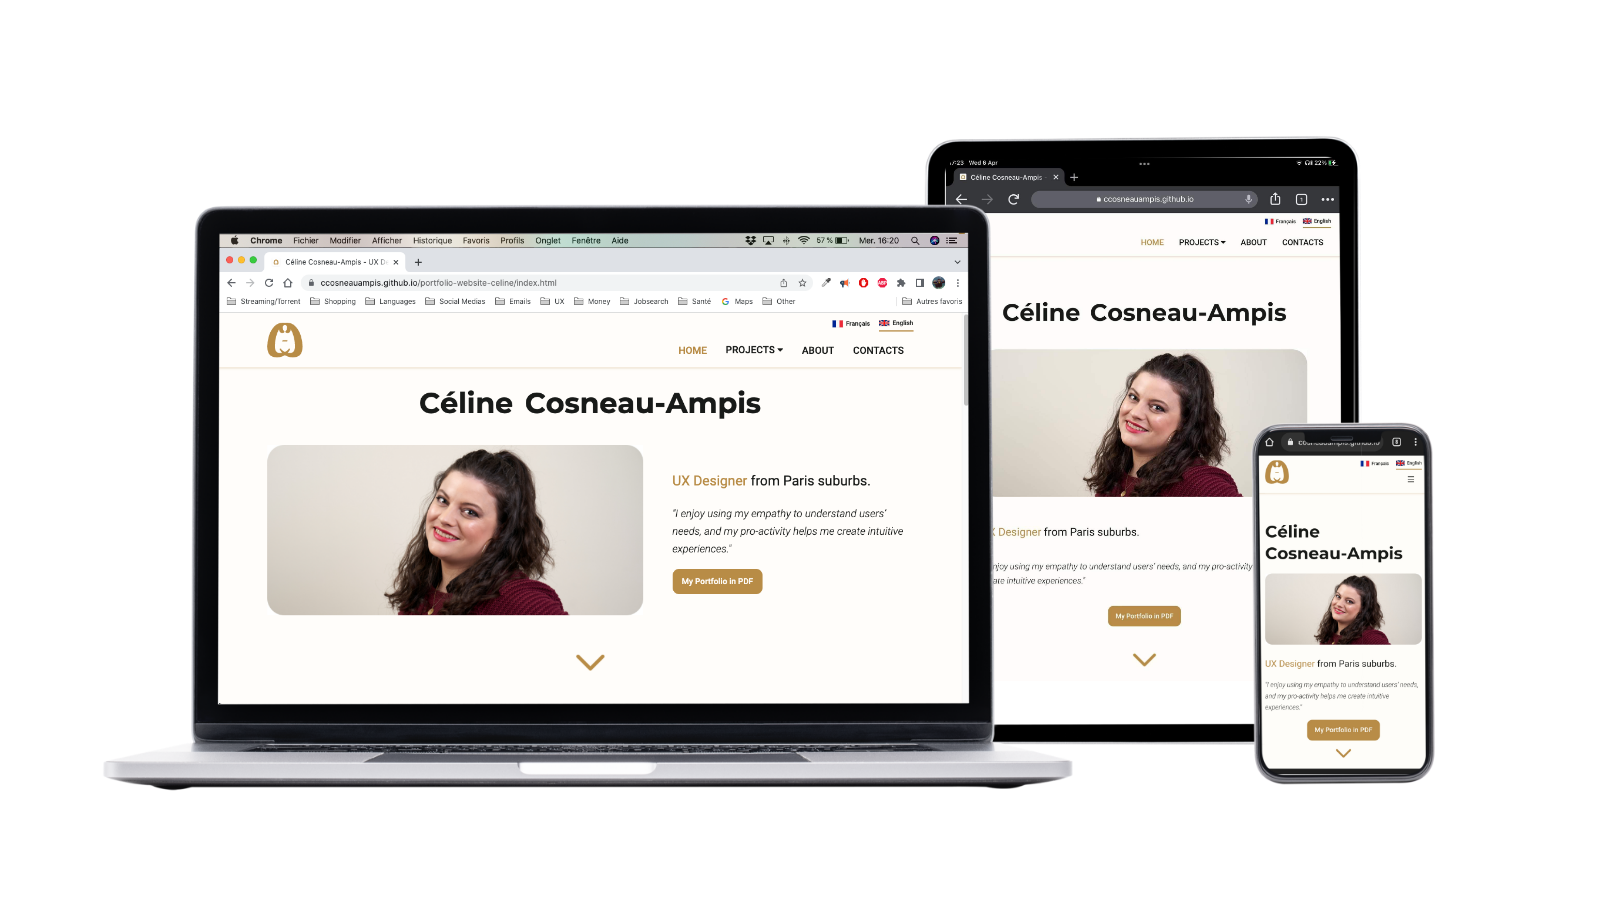
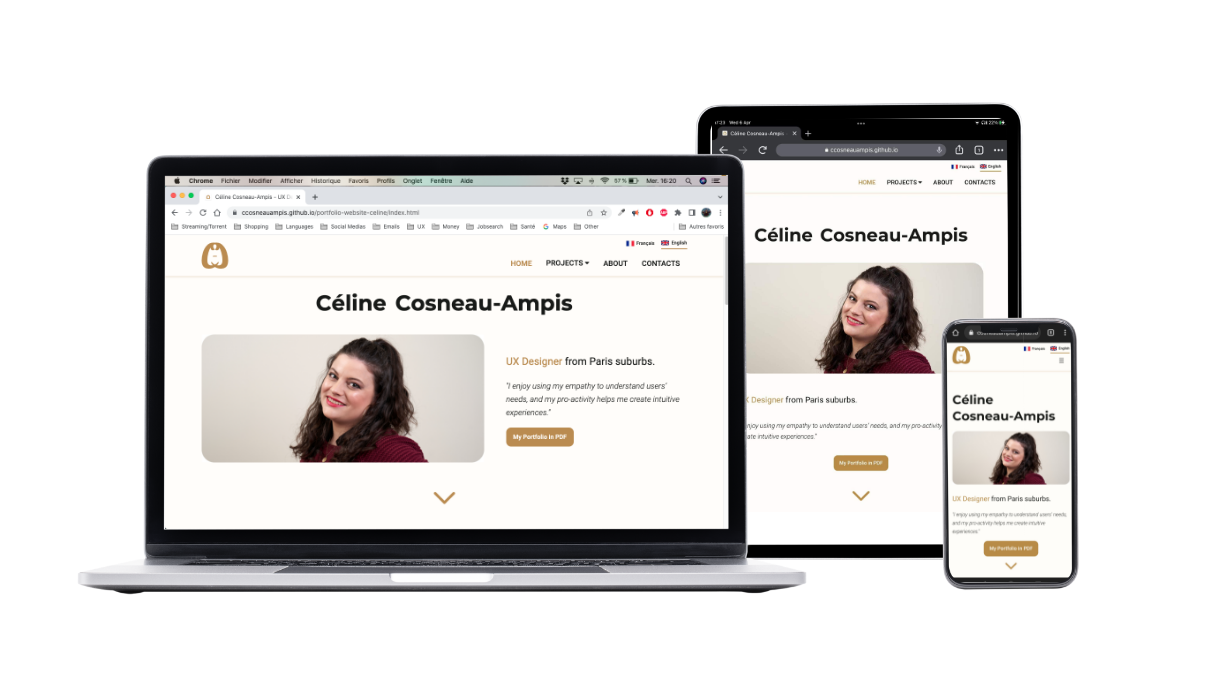
Fixed cover size

diff --git a/css/myportfoliowebsite.css b/css/myportfoliowebsite.css
@@ -401,6 +401,12 @@ a.phase:active {
 
 /* Main */
 /* MyPortfolioWebsite */
+main h1, main h2, main h3, main h4, main p, main ul, #role_tools {
+  max-width: 700px;
+  margin-left: auto;
+  margin-right: auto;
+}
+
 .cover {
   display: flex;
   flex-direction: row;
@@ -409,14 +415,14 @@ a.phase:active {
   margin-top: 80px;
   background-color: #1866E1;
   width: 100%;
-  height: 200px;
+  height: 35vh;
 }
 
 .cover img {
   width: 85%;
 }
 
-#casestudy_myportfoliowebsite {
+#github_link {
   display: flex;
   flex-direction: row;
   justify-content: center;
@@ -649,7 +655,7 @@ a.phase:active {
   }
 
   .cover {
-    height: 350px;
+    height: 50vh;
     margin-top: 0;
   }
 
@@ -806,10 +812,6 @@ a.phase:active {
 
   .col-md-6 {
     width: 48%;
-  }
-
-  .cover {
-    height: 500px;
   }
 
   .showhide1 {

diff --git a/FR/myportfoliowebsite.html b/FR/myportfoliowebsite.html
@@ -97,7 +97,7 @@
       <div class="container">
         <h1 class="row">Portfolio en ligne</h1>
         <p class="center">Un projet d'apprentissage du développement frontend avec un Portfolio en ligne à la clé.</p>
-        <div class="row" id="casestudy_myportfoliowebsite">
+        <div class="row" id="github_link">
           <a href="https://github.com/ccosneauampis/portfolio-website-celine" class="button" target="_blank">Lien GitHub du projet</a>
         </div>
         <div class="row" id="role_tools">

diff --git a/myportfoliowebsite.html b/myportfoliowebsite.html
@@ -97,7 +97,7 @@
       <div class="container">
         <h1 class="row">Portfolio-Website</h1>
         <p class="center">A Front-end learning project resulting in an online Portfolio.</p>
-        <div class="row" id="casestudy_myportfoliowebsite">
+        <div class="row" id="github_link">
           <a href="https://github.com/ccosneauampis/portfolio-website-celine" class="button" target="_blank">Project GitHub link</a>
         </div>
         <div class="row" id="role_tools">

diff --git a/css/expertsnow.css b/css/expertsnow.css
@@ -408,11 +408,13 @@ main {
   align-items: center;
   background-color: #8736AA;
   width: 100%;
-  height: 200px;
+  height: 35vh;
 }
 
 .cover img {
   width: 70%;
+  max-width: 100%;
+  height: auto;
 }
 
 #overview_expertsnow .container {
